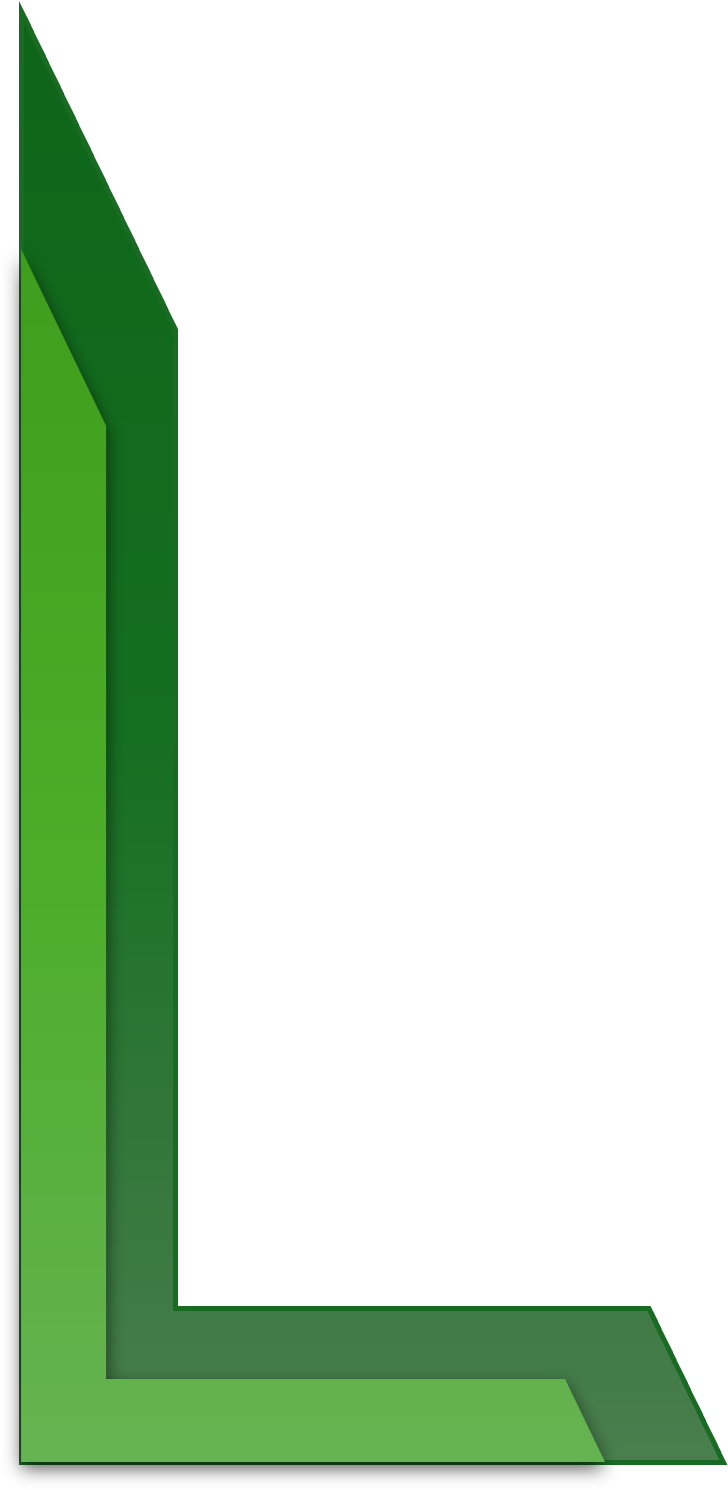
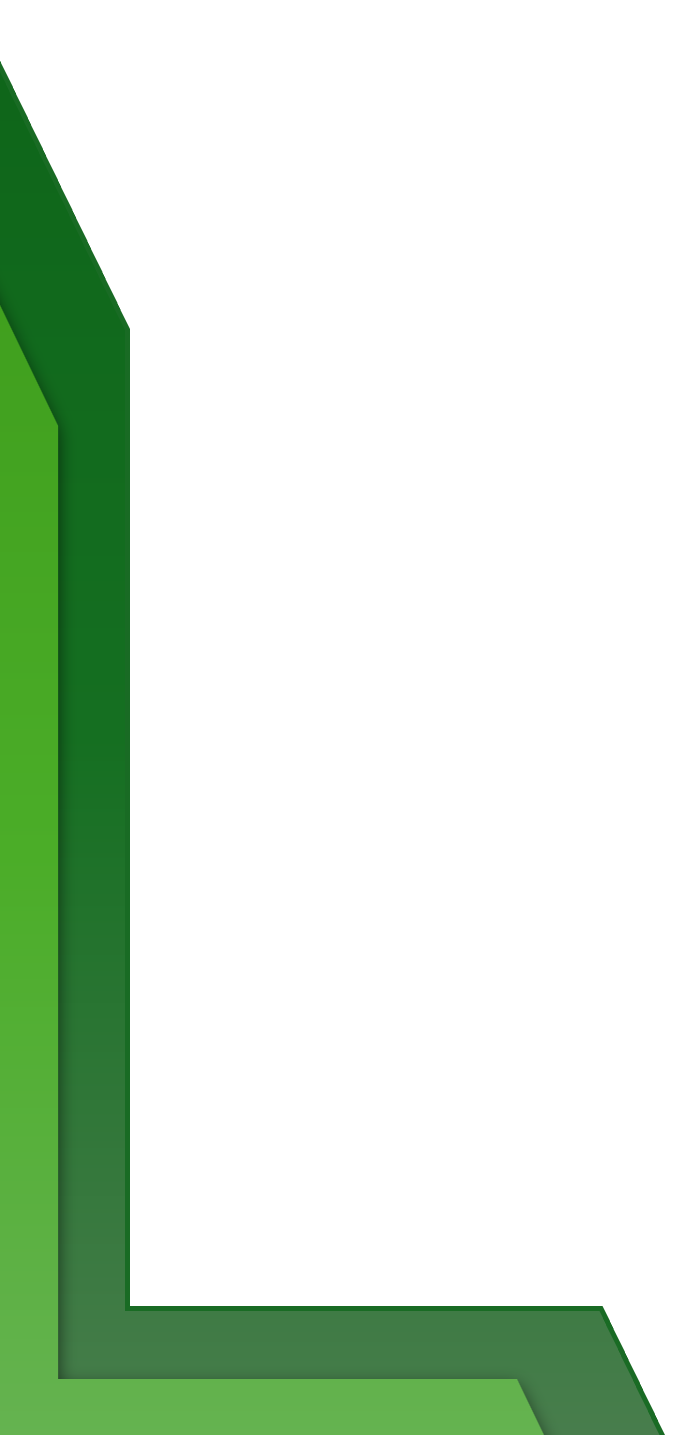
Feat: Certificate updated

Changed region(s): [[0.0, 0.0, 1.0, 1.0]]

diff --git a/src/module-2/certificates/services/certificate-generation.service.ts b/src/module-2/certificates/services/certificate-generation.service.ts
@@ -531,14 +531,6 @@ export class CertificateGenerationService {
       color: dark,
     });
 
-    page.drawText('Italir Pothe Registrar', {
-      x: 164,
-      y: 81,
-      size: 10,
-      font: fonts.regular,
-      color: dark,
-    });
-
     this.drawCenteredText({
       page,
       text: `Issued on ${issueDate}`,